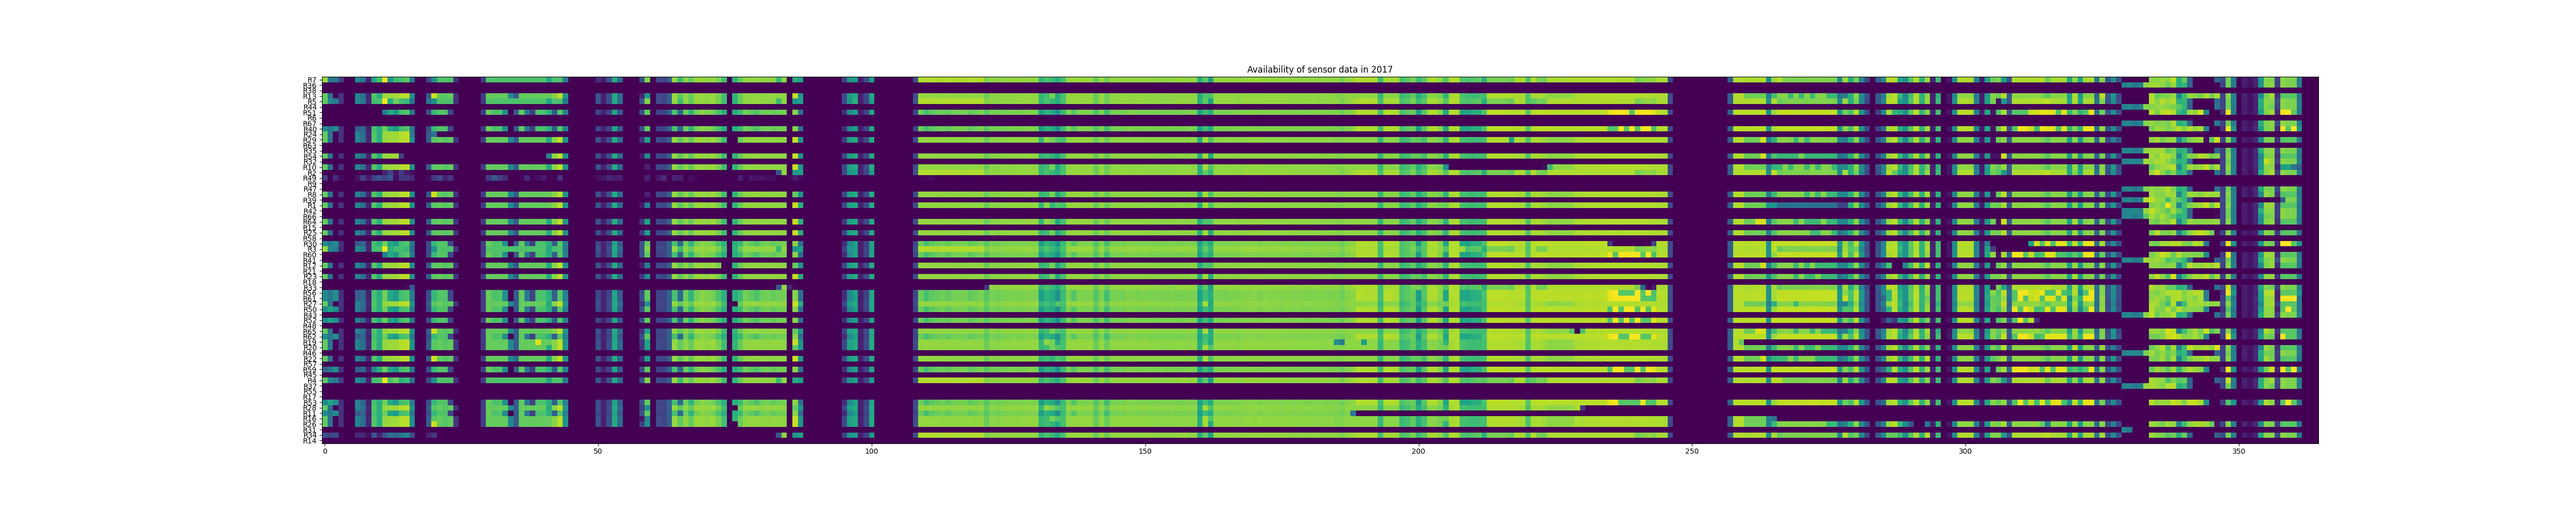
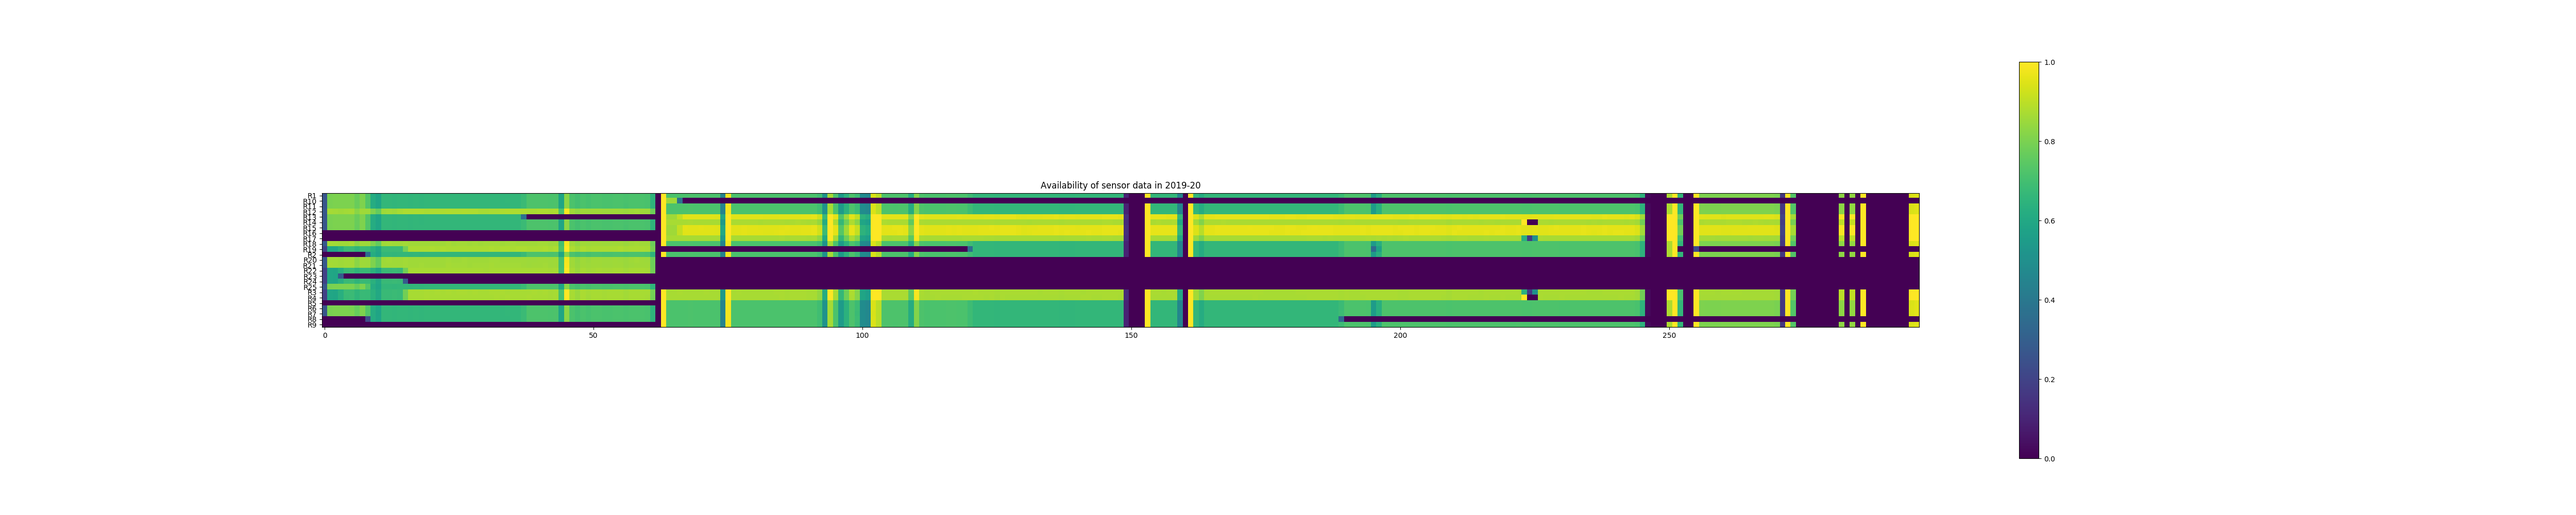
feat: Adds exception handling and plot generation

diff --git a/missing-point-analysis.py b/missing-point-analysis.py
@@ -1,33 +1,43 @@
 import pandas as pd
 import numpy as np
-import csv, os
+import csv, os, datetime
 
 sensorIdx=1
 analysis = pd.DataFrame()
 
 # Very hacky method to get list of all dates
-dateList =  sorted(os.listdir("data/R1"))
-dateList = list(map(lambda x:x.split(".")[0], dateList))
+startdate = datetime.datetime(2019,7,17,0,0)
+enddate = datetime.datetime(2020,5,9,0,0)
+delta = enddate-startdate
+delta = delta.days
+dateList = [startdate + datetime.timedelta(days=x) for x in range(delta)]
+
+dateList = list(map(lambda x:x.strftime('%Y-%m-%d'), dateList))
+
+# dateList =  sorted(os.listdir("data/R1"))
+# dateList = list(map(lambda x:x.split(".")[0], dateList))
 
 analysis['date'] = dateList
 
-for sensor in os.listdir("data"):
+for sensor in sorted(os.listdir("data")):
+    print(sensor)
     directory = "data/%s"%sensor
     availabilityList=[]
-    for filename in sorted(os.listdir(directory)):
-        if filename.endswith(".csv"):
-             # print(os.path.join(directory, filename))        
-            date = filename.split(".")[0]
-            # print(date)
-            try:
-                df = pd.read_csv(os.path.join(directory, filename), header=None, usecols=[0])  
-                df = df.diff()
-                lines = len(df)
-                freq = round(df.mode()[0][0])
-                expectedLines = 3600*24/freq
-                availabilityList.append(str(lines/expectedLines))
-            except Exception as  e:
-                availabilityList.append(str(0))
+    for date in dateList:
+        # print(os.path.join(directory, filename))        
+        filename = '%s.csv'%date
+        # print(date)
+        try:
+            df = pd.read_csv(os.path.join(directory, filename), header=None, usecols=[3])  
+            lines = len(df)
+            df = df.diff()
+            freq = round(int(df.median()))
+            # print(freq)
+            expectedLines = 3600*24/freq
+            availabilityList.append(str( min(lines/expectedLines,1) ))
+        except Exception as  e:
+            # print(e)
+            availabilityList.append(str(0))
 
     # Insert availability data into analysis df
     analysis[sensor]=availabilityList

diff --git a/csv-store-fetch.py b/csv-store-fetch.py
@@ -10,7 +10,7 @@ sourcePathPrefix=os.getenv('SOURCE_PREFIX', '/home/Data')
 sourcePathSuffix=os.getenv('SOURCE_SUFFIX', '/data')
 destPathPrefix=os.getenv('DEST_PREFIX', '/home/dest')
 
-starttime=datetime.datetime(2019,7,17,0,0)
+starttime=datetime.datetime(2019,9,17,0,0)
 endtime=datetime.datetime(2020,5,12,0,0)
 sensorIdx=1
 sensorMap={}
@@ -18,21 +18,24 @@ d=starttime
 
 while d<= endtime:
     print(d)
-    path=os.path.join(sourcePathPrefix, d.strftime("%Y/%m/%d"), sourcePathSuffix)
-    for filename in sorted(os.listdir(path)):
-        sensorId = filename.split("_")[0]
-        if sensorId not in sensorMap:
-            sensorMap[sensorId] = 'R%s'%sensorIdx
-            sensorIdx+=1
-        idx = sensorMap[sensorId]
-        # print(sensorId, idx)
+    try:
+        path=os.path.join(sourcePathPrefix, d.strftime("%Y/%m/%d"), sourcePathSuffix)
+        for filename in sorted(os.listdir(path)):
+            sensorId = filename.split("_")[0]
+            if sensorId not in sensorMap:
+                sensorMap[sensorId] = 'R%s'%sensorIdx
+                sensorIdx+=1
+            idx = sensorMap[sensorId]
+            # print(sensorId, idx)
 
-        destDirectory = "data/%s"%(idx)
+            destDirectory = "data/%s"%(idx)
 
-        if not os.path.exists(destDirectory):
-            os.mkdir(destDirectory)
+            if not os.path.exists(destDirectory):
+                os.mkdir(destDirectory)
 
-        shutil.copyfile(os.path.join(path,filename), os.path.join(destDirectory, filename.split("_")[1]))
+            shutil.copyfile(os.path.join(path,filename), os.path.join(destDirectory, filename.split("_")[1]))
+    except Exception as e:
+        print(e)
     # print(path)
     d += datetime.timedelta(days=1)
 

diff --git a/plot.py b/plot.py
@@ -8,6 +8,7 @@ dates = list(df['date'])
 sensors = list(df)[1:]
 availability = df
 del availability['date']
+availability = availability.clip(0,1)
 availability = availability.transpose()
 print(availability)
 
@@ -24,8 +25,8 @@ ax.set_yticklabels(sensors)
 # Rotate the tick labels and set their alignment.
 # plt.setp(ax.get_xticklabels(), rotation=45, ha="right",rotation_mode="anchor")
 
-ax.set_title("Availability of sensor data in 2017")
+ax.set_title("Availability of sensor data in 2019-20")
 # fig.tight_layout()
 fig.set_size_inches(50, 10)
-
+plt.colorbar(im)
 plt.savefig("availability.png")
